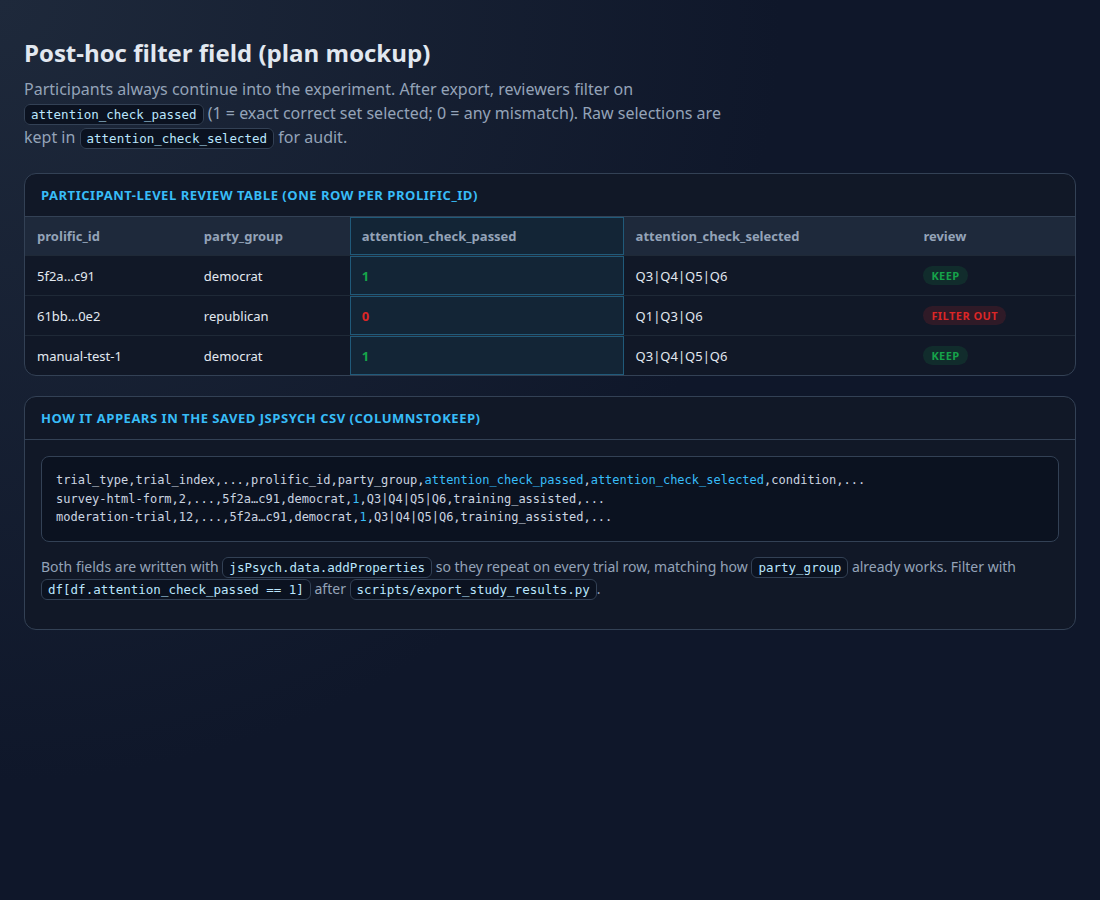
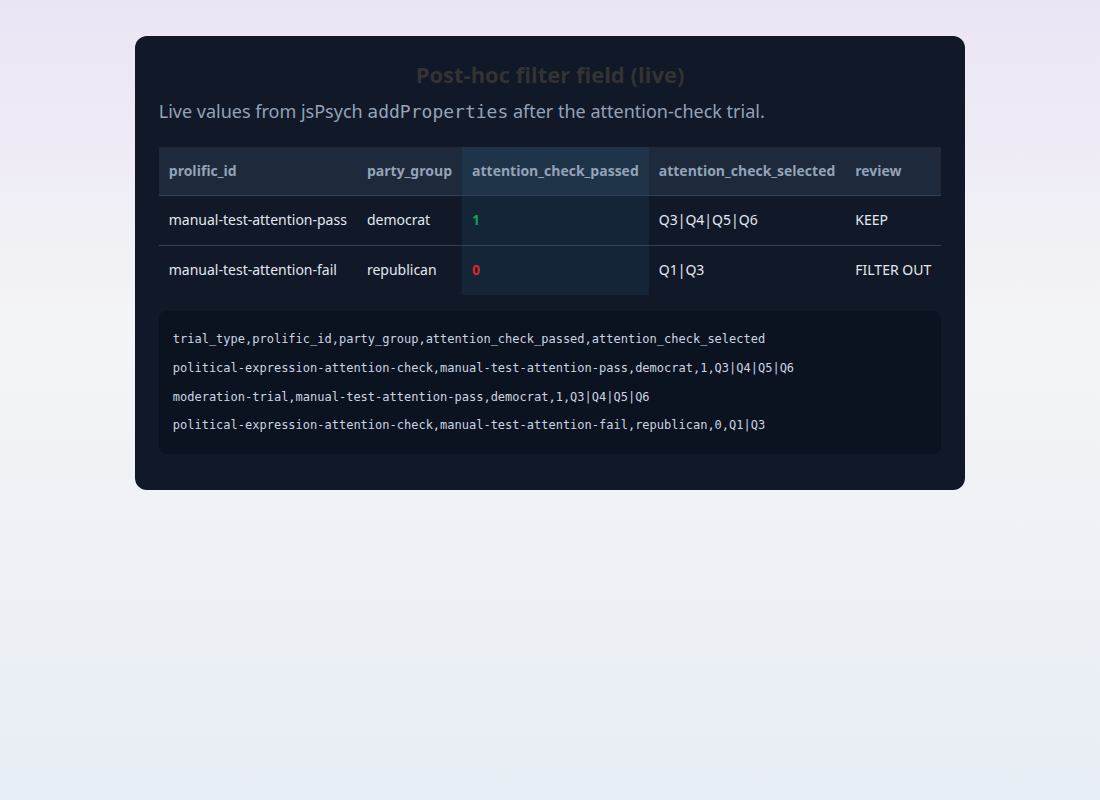
Document attention check in changelog and refresh live screenshots
Update CHANGELOG for the pre-study attention check, note live verification
images in the plan package, and refresh after screenshots from the jsPsych trial.

diff --git a/docs/plans/2026-08-07_attention_check_pre_study_79580d/plan.md b/docs/plans/2026-08-07_attention_check_pre_study_79580d/plan.md
@@ -37,11 +37,11 @@ Reuse the existing pre-survey HTML-form plugin (already loaded) rather than addi
 | What | Path |
 |------|------|
 | Before (no attention check in timeline) | [images/before/no_attention_check_timeline.png](images/before/no_attention_check_timeline.png) |
-| After UI mockup (target screen) | [images/after/attention_check_ui.png](images/after/attention_check_ui.png) |
-| After data-field mockup (filter column) | [images/after/attention_check_data_field.png](images/after/attention_check_data_field.png) |
-| Static HTML sources for mockups | [images/mockups/](images/mockups/) |
+| After UI (live jsPsych trial) | [images/after/attention_check_ui.png](images/after/attention_check_ui.png) |
+| After data field (live `addProperties` values) | [images/after/attention_check_data_field.png](images/after/attention_check_data_field.png) |
+| Static HTML sources for earlier mockups | [images/mockups/](images/mockups/) |
 
-Implementation Step 4 re-captures live screenshots from the running webapp and overwrites the after images.
+After images were re-captured from the live `politicalExpressionAttentionCheck` trial (jsPsych) after implementation.
 
 ## Steps
 

diff --git a/CHANGELOG.md b/CHANGELOG.md
@@ -1,5 +1,9 @@
 # CHANGELOG
 
+## 2026-08-07
+
+1. Added a pre-study political-expression attention check to the MirrorView webapp (select-all comprehension). Participants always continue; `attention_check_passed` / `attention_check_selected` are saved on every CSV row for post-hoc filtering. [PR #52](https://github.com/METResearchGroup/mirrorView-task/pull/52)
+
 ## 2026-08-06
 
 1. Added the larger-scale prompt-engineering keep/remove classifier experiment on a balanced 1,000-post subset (500/500) with Qwen 3.6. Feature-tuned prompt raised remove F1 from 0.628 to 0.700 versus control. [PR #49](https://github.com/METResearchGroup/mirrorView-task/pull/49)
